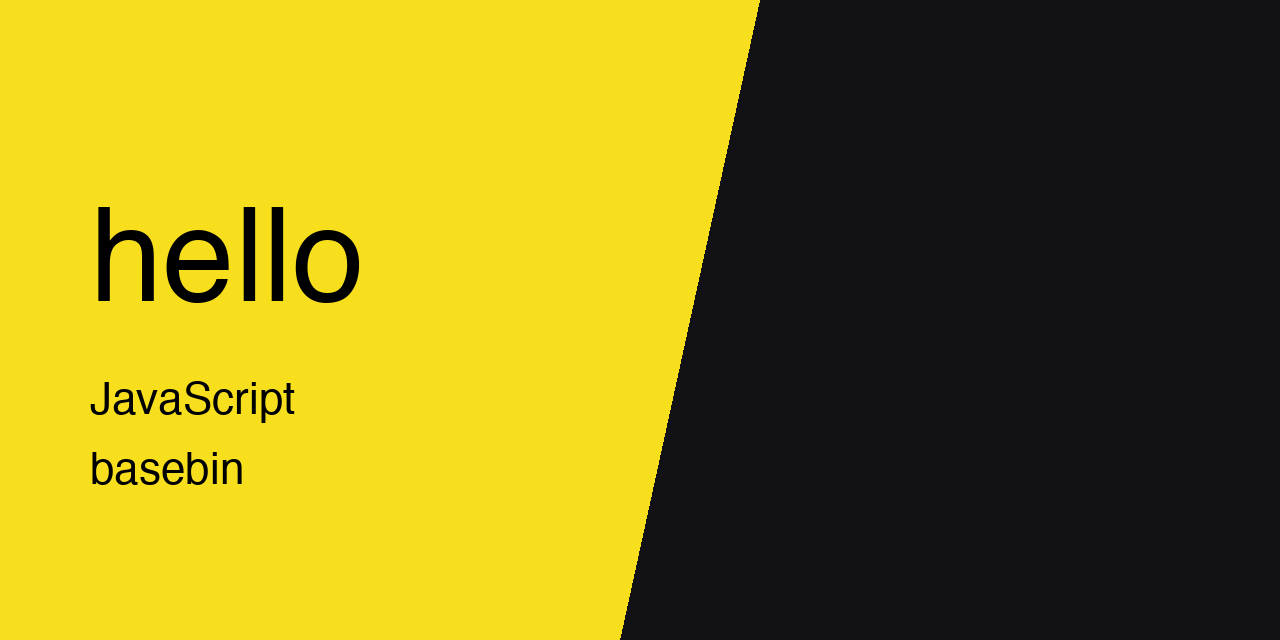
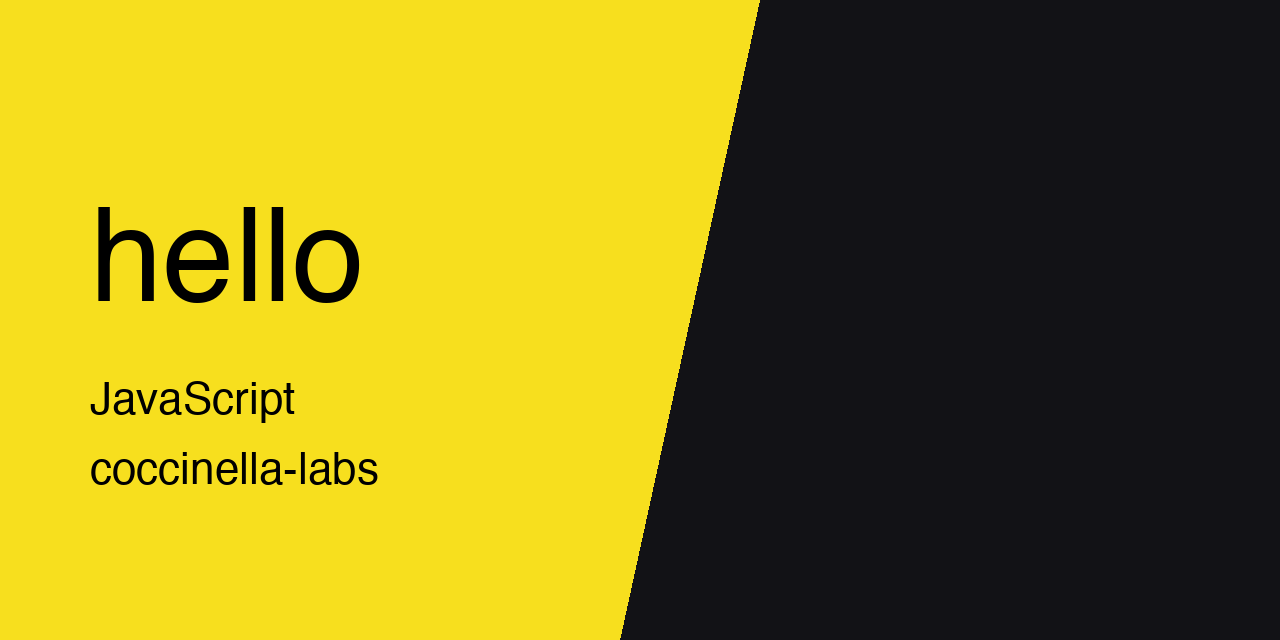
[docs] move thumbnail to coccinella-labs

Changed region(s): [[0.0625, 0.7188, 0.3125, 0.7812]]

diff --git a/README.md b/README.md
@@ -1,5 +1,5 @@
 <p align="center">
-  <img src="https://raw.githubusercontent.com/basebin/hello/main/.github/assets/thumbnail.png" alt="hello" width="100%">
+  <img src="https://raw.githubusercontent.com/Coccinella-Labs/hello/main/.github/assets/thumbnail.png" alt="hello" width="100%">
 </p>
 
 # Hello
